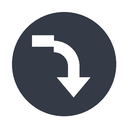
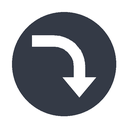
Codex: draw the exhaust arrow as one stroke
The exhaust glyph's tail sat half a stroke above its bend: Pillow draws
an arc's stroke inward from its bounding box but centres a line's on
its coordinates, so the straight tail and the arc met out of step. The
shaft is now one centre line, the bend sampled along it, drawn with a
curved joint. exhaust.png redrawn; the script's other outputs are
byte-identical.

Claude-Session: https://claude.ai/code/session_019cs59UsVv3aEWGZNp6q8Xq

Changed region(s): [[0.4062, 0.25, 0.75, 0.7812]]

diff --git a/scripts/render_codex_emoji.py b/scripts/render_codex_emoji.py
@@ -25,6 +25,7 @@ tab in the Developer Portal, one file per name, the name the file's.
 """
 
 import argparse
+import math
 import sys
 from pathlib import Path
 
@@ -106,20 +107,25 @@ def gold() -> Image.Image:
 
 def exhaust() -> Image.Image:
     """The cards' ⤵ -- an arrow pointing right, then curving down --
-    drawn rather than set, since no bundled face has the glyph."""
+    drawn rather than set, since no bundled face has the glyph. The
+    shaft is one centre line, the bend sampled along it, drawn as one
+    stroke: an arc's stroke runs inward from its box where a line's is
+    centred on it, so a line and an arc drawn apart meet a half stroke
+    out of step."""
     image, draw, size = canvas()
     disc(draw, size, SLATE, WHITE)
     width = size // 11
     radius = size // 5
     left, top = size * 0.25, size * 0.32
-    corner = size * 0.62 - radius
-    draw.line((left, top, corner, top), fill=WHITE, width=width)
-    draw.arc(
-        (corner - radius, top, corner + radius, top + 2 * radius),
-        start=270, end=360, fill=WHITE, width=width,
-    )
-    x = corner + radius - width / 2
-    draw.line((x, top + radius, x, size * 0.62), fill=WHITE, width=width)
+    x = size * 0.62
+    centre = (x - radius, top + radius)
+    bend = [
+        (centre[0] + radius * math.sin(step * math.pi / 32),
+         centre[1] - radius * math.cos(step * math.pi / 32))
+        for step in range(17)
+    ]
+    shaft = [(left, top), *bend, (x, size * 0.62)]
+    draw.line(shaft, fill=WHITE, width=width, joint="curve")
     head = size * 0.13
     tip = size * 0.76
     draw.polygon(
